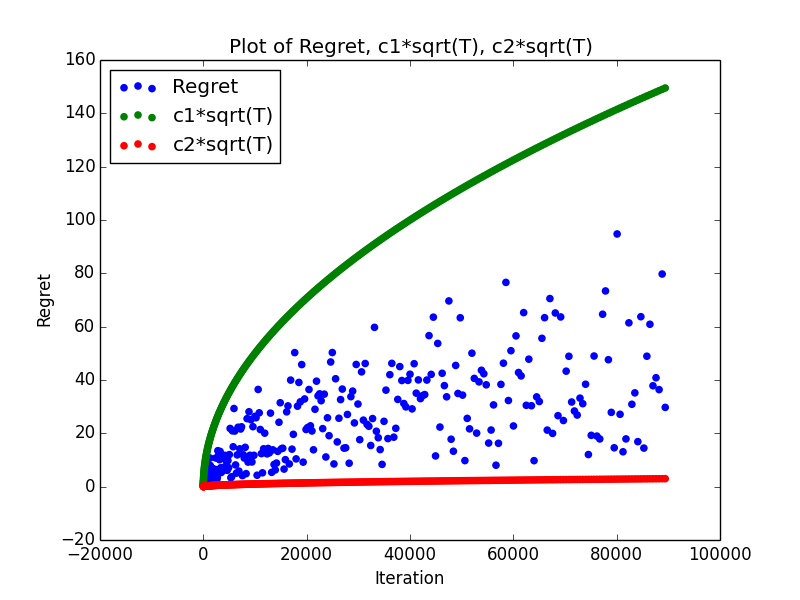
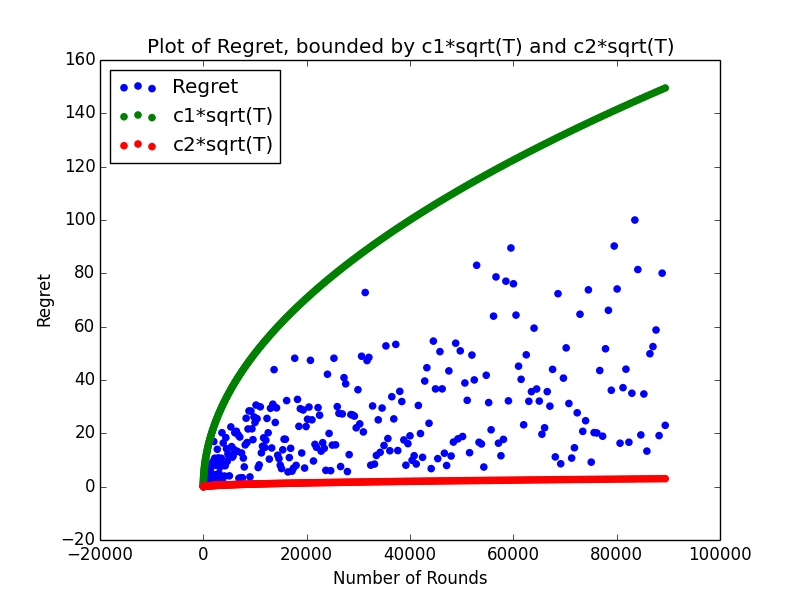
Calling it good with code for 1a and 1b.

diff --git a/ps4/ps4_q1b.py b/ps4/ps4_q1b.py
@@ -1,13 +1,16 @@
 '''
+Robert Werthman
+CSCI 5454
+PS4 Questions 1 Part b
 
 Sources
 ---------
 https://stackoverflow.com/questions/3679694/a-weighted-version-of-random-choice
-  - Create and choose an element with a probability
+  - Showed me how to create and choose an element with a probability
 https://web.eecs.umich.edu/~jabernet/eecs598course/fall2013/web/notes/lec4_091613.pdf
-  -
+  - Describes how to implement hedge
 https://stackoverflow.com/questions/10271484/python-element-wise-multiplication-of-two-lists
-  - dot product of two lists
+  - Show me how to do the dot product of two lists
 '''
 #from numpy.random import choice
 from random import random
@@ -15,23 +18,45 @@ import math
 import matplotlib.pyplot as plt
 
 def UpdateWeights(learning_rate, weights, loss_vector):
+  '''
+  Update the weights for each action given the loss vector for 
+  a particular round.
+  '''
   for i in range(len(weights)):
     x = -learning_rate*loss_vector[i]
     weights[i] = weights[i]*math.exp(x)
   return weights
 
 def GetProbilityDistribution(weights):
+  '''
+  Creates the probability distribution for a list of weights.
+  Each weight may have a different probability.
+  '''
   # Create probabilities for each weight/column of the matrix
   probability_distribution = [(weight/sum(weights)) for weight in weights]  
   return probability_distribution
 
 def NatureChoosesLossVector(num_actions):
+  '''
+  Create a vector/list of random losses for each action
+  The losses are between 0 and 1
+  
+  Returns:
+    loss vector 
+  '''
   loss_vector = []
-  for i in range(num_actions):
+  for _ in range(num_actions):
     loss_vector.append(random())
   return loss_vector 
 
 def AlgorithmLoss(weights, loss_vector, probability_distribution):
+  '''
+  Calculates the algorithm loss by doing a dot product of
+  the loss vector and the probability distribution
+  
+  Returns:
+    Algorithm loss 
+  '''
   #algorithm_loss = 0.0
   #for i in range(len(weights)):
     #algorithm_loss += weights[i]*loss_vector[i]
@@ -42,36 +67,40 @@ def AlgorithmLoss(weights, loss_vector, probability_distribution):
     
 
 def Hedge(learning_rate, rounds, num_actions):
+  '''
+  Implementation of the Hedge/action setting for game playing
+  
+  Returns:
+    regret for the number of rounds hedge was run for
+  '''
+  # initialize the weights to 1
   weights = [1.0]*num_actions
+  # list that keeps track of the losses for each action for all rounds
   loss_per_action = [0.0]*num_actions
+  # float that keeps track of the total algorithm loss for all rounds
   algorithm_loss = 0.0
-  for t in range(rounds):
+  for _ in range(rounds):
+    # Get the probability distribution from the weights for the actions
     probability_distribution = GetProbilityDistribution(weights)
+    # Loss vector generated by nature for each action
     loss_vector = NatureChoosesLossVector(num_actions)
-    # Keep track of the losses for each of the actions
+    # Sum the losses for each action each round
     for i in range(len(loss_per_action)):
       loss_per_action[i] += loss_vector[i]
-    # Caclulate the algorithm loss for the round
+    # Calculate the algorithm loss for the round
     algorithm_loss += AlgorithmLoss(weights, loss_vector, probability_distribution)
+    # Update the weigths for each action based on the loss vector
     weights = UpdateWeights(learning_rate, weights, loss_vector)
   
+  # Calculate the regret for the given number of rounds
   regret = algorithm_loss - min(loss_per_action)
   return regret
 
-def main():
-  regrets = []
-  T = []
-  num_actions = 2
-  for i in range(2,300,1):
-    print i
-    rounds = i**2
-    T.append(rounds)
-    #learning_rate = 1.0/math.sqrt(rounds)
-    learning_rate = math.sqrt((8*math.log10(num_actions))/rounds)
-  
-  
-    regrets.append(Hedge(learning_rate, rounds, num_actions))
- 
+def CreateGraph(regrets, T):
+  '''
+  Create a graph showing the the regret of hedge is 
+  theta(sqrt(T)) where T is the number of rounds
+  '''
   c1 = .5
   c2 = 0.01
   c1_T = [c1*math.sqrt(x) for x in T]
@@ -83,15 +112,23 @@ def main():
   c = plt.scatter(T,c2_T,color='r')
   #plt.ylim(0, 150)
   #plt.xlim(0, 70000)
-  plt.title("Plot of Regret, c1*sqrt(T), c2*sqrt(T)")
+  plt.title("Plot of Regret, bounded by c1*sqrt(T) and c2*sqrt(T)")
   plt.legend((a,b,c),('Regret', 'c1*sqrt(T)', 'c2*sqrt(T)'), loc=2)
-  plt.xlabel('Iteration')
+  plt.xlabel('Number of Rounds')
   plt.ylabel('Regret')
   plt.savefig('q1b.png')
-  
 
-  
-  
+def main():
+  regrets = []
+  T = []
+  num_actions = 2
+  for i in range(2,300,1):
+    rounds = i**2
+    T.append(rounds)
+    learning_rate = math.sqrt((8*math.log10(num_actions))/rounds)
+    regrets.append(Hedge(learning_rate, rounds, num_actions))
+ 
+  CreateGraph(regrets, T)
 
 if __name__ == '__main__':
   main()

diff --git a/ps4/ps4_q1a.py b/ps4/ps4_q1a.py
@@ -1,17 +1,30 @@
 '''
+Robert Werthman
+CSCI 5454
+PS4 Question 1 Part a
 
 Sources
 ---------
 https://stackoverflow.com/questions/3679694/a-weighted-version-of-random-choice
-  - 
+  - Showed me how to create and choose an element with a probability
 https://web.eecs.umich.edu/~jabernet/eecs598course/fall2013/web/notes/lec4_091613.pdf
-  -
+  - Describes how to implement hedge
+https://stackoverflow.com/questions/10271484/python-element-wise-multiplication-of-two-lists
+  - Show me how to do the dot product of two lists
 '''
 from numpy.random import choice
 from random import randint
 import math
 
 def ChooseAction(weights):
+  '''
+  Choose an action based on a probability distribution
+  for each action which was created by the weights for each action.
+  
+  Returns:
+    action integer of index in list
+    probability_distribution probabilities for each action
+  '''
   # The AI can choose a column in the matrix
   actions = [i for i in range(len(weights))]
   # Create probabilities for each weight/column of the matrix
@@ -21,12 +34,19 @@ def ChooseAction(weights):
   return action, probability_distribution
 
 def UpdateWeights(learning_rate, weights, loss_vector):
+  '''
+  Update the weights for each action given the loss vector for 
+  a particular round.
+  '''
   for i in range(len(weights)):
     x = -learning_rate*loss_vector[i]
     weights[i] = weights[i]*math.exp(x)
   return weights
 
 def UpdateScores(ai_score, ai_action, user_score, user_action, payoff_matrix):
+  '''
+  Displays the scores of the human player and AI after each round.
+  '''
   old_ai_score = ai_score
   ai_score = old_ai_score - payoff_matrix[user_action][ai_action]
   print 'old AI score', old_ai_score, ', new AI score', ai_score, ', difference', \
@@ -40,6 +60,9 @@ def UpdateScores(ai_score, ai_action, user_score, user_action, payoff_matrix):
   return ai_score, user_score
 
 def Hedge(learning_rate, payoff_matrix, rounds):
+  '''
+  Implementation of the Hedge/action setting for game playing.
+  '''
   user_score = 0.0
   ai_score = 0.0
   weights = [1.0]*len(payoff_matrix[0])
@@ -68,6 +91,7 @@ def Hedge(learning_rate, payoff_matrix, rounds):
 
 def main():
   
+  # Create a random payoff matrix
   payoff_matrix = [[randint(-10,10),randint(-10,10),randint(-10,10)],
                    [randint(-10,10),randint(-10,10),randint(-10,10)],
                    [randint(-10,10),randint(-10,10),randint(-10,10)]
